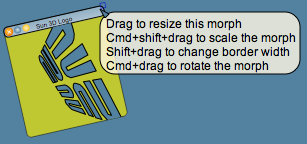
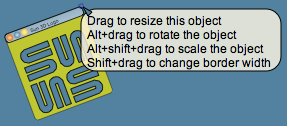
Update screen snapshots for the tutorial to use the corrected balloon help.

diff --git a/source/tutorial/Tutorial19-MoreApps2.html b/source/tutorial/Tutorial19-MoreApps2.html
@@ -24,7 +24,7 @@
     <hr>
     <b>Try it yourself!</b> Try the various controls in the widgets below.<br>
     <p>
-    <object data="Tutorial19-MoreApps2.svg" width="1024px" height="640px" type="image/svg+xml">
+    <object data="Tutorial19-MoreApps2.svg" width="1280px" height="640px" type="image/svg+xml">
         *** Unable to load Lively Kernel ***
     </object>
     <p>
